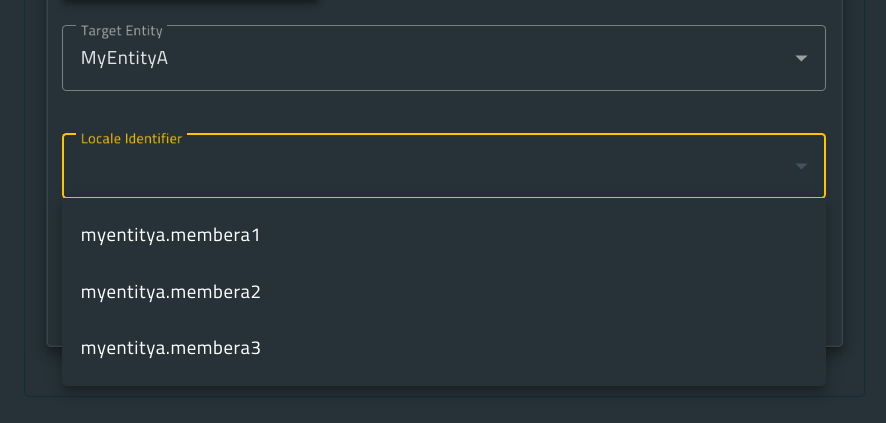
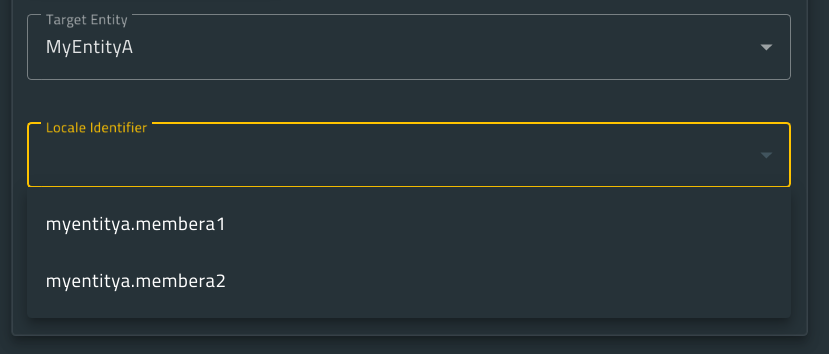
updated doc : domain controller service + more examples

diff --git a/_sass/averos-io/_page.scss b/_sass/averos-io/_page.scss
@@ -4,8 +4,8 @@
 
 #main {
   @include clearfix;
-  margin-left: auto;
-  margin-right: auto;
+  // margin-left: auto;
+  // margin-right: auto;
   padding-left: 1em;
   padding-right: 1em;
   -webkit-animation: $intro-transition;
@@ -14,9 +14,9 @@
   -webkit-animation-delay: 0.15s;
   animation-delay: 0.15s;
 
-  @include breakpoint($x-large) {
-    max-width: $max-width;
-  }
+  // @include breakpoint($x-large) {
+  //   max-width: $max-width;
+  // }
 }
 
 body {

diff --git a/_sass/averos-io/_navigation.scss b/_sass/averos-io/_navigation.scss
@@ -446,10 +446,14 @@
   }
 
   .active {
-    margin-left: -0.5em;
+    // margin-left: 0.5em;
     padding-left: 0.5em;
-    padding-right: 0.5em;
+    // padding-right: 0.5em;
+    padding-right: 2em;
     font-weight: bold;
+    background-color: #001372;
+    color: white;
+    border-radius: 10px;
   }
 
   @include breakpoint(max-width $large - 1px) {

diff --git a/_docs/documentation/08.3-averos-domain-controller-service.md b/_docs/documentation/08.3-averos-domain-controller-service.md
@@ -30,6 +30,33 @@ As a first step, the user selects one entity from the list of available entities
 The aim in this case is to dynamically retrieve related domain data (the list of entity members in this case) based on dynamic informations (a given updatable entity).<br/>
 Likewise, any new entity member will be retrieved dynamically.<br/>
 
+Below is a representation that depicts the example above. <br/>
+Given a form that is composed of two `combobox` input elements named `Target Entity` - displays a list of entities- and `Locale Identifier` (displays a list of entity members). <br/> 
+When one entity is selected in the first `combobox` component `Target Entity`, the second `combobox` component `Locale Identifier` shoud dynamically display the list of members that belongs to that specific entity. (Excerpt from `Translation Entry Creation` in `Averos Designer`) <br/>
+
+
+In the first picture, when `EntityA` is selected in the first component, the second component `Locale Identifier` brings dynamically `EntityA` members, namely, `memberA1` and `memberA2`.
+
+<div align="center">
+<figure style="justify-content: center;">
+	<a href="{{ site.baseurl }}/assets/doc/averos-domain-controller-in-action-1.png">
+    <img style="width: 70%;" src="{{ site.baseurl }}/assets/doc/averos-domain-controller-in-action-1.png" alt="Averos domain controller in action: EntityA members">
+      <figcaption>Averos domain controller in action: EntityA members are brought dynamically</figcaption>
+  </a>
+</figure>
+</div>
+
+The second picture, shows how when `EntityB` is selected, the `combobox` component `Locale Identifier` dynamically updates its data and, this time, brings `EntityB` members, namely, `memberB1`, `memberB2`, `memberB3`, `memberB4` and `memberB5`.
+
+<div align="center">
+<figure style="justify-content: center;">
+	<a href="{{ site.baseurl }}/assets/doc/averos-domain-controller-in-action-2.png">
+    <img style="width: 70%;" src="{{ site.baseurl }}/assets/doc/averos-domain-controller-in-action-2.png" alt="Averos domain controller in action: EntityB members">
+      <figcaption>Averos domain controller in action: EntityB members are brought dynamically</figcaption>
+  </a>
+</figure>
+</div>
+
 Dynamic domain controller data retrival could also be achieved via a call to an api. <br/>
 
 When member values belong to a specific business domain, it's usually more convenient and way user friendly to display the value text in the appropriate user language. <br/>
